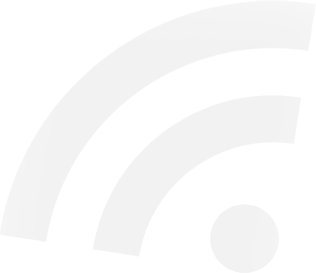
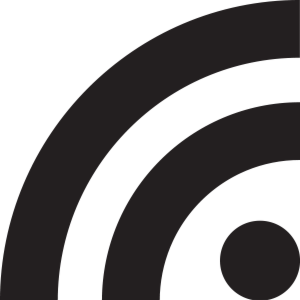
Updated styling for Text feed

diff --git a/modules/ik_frontend/css/styles.css b/modules/ik_frontend/css/styles.css
@@ -574,30 +574,36 @@ h6 {
   width: 100%; }
   /* line 478, ../sass/_layouts.scss */
   .layout-7 .text-container .heading-container {
-    width: 49.5%;
+    width: 45.5%;
     float: left; }
   /* line 483, ../sass/_layouts.scss */
   .layout-7 .text-container .slide-heading {
     margin-bottom: 10px;
     margin-bottom: 0.625rem; }
   /* line 487, ../sass/_layouts.scss */
+  .layout-7 .text-container .slide-subheading {
+    filter: progid:DXImageTransform.Microsoft.Alpha(Opacity=50);
+    opacity: 0.5; }
+  /* line 491, ../sass/_layouts.scss */
   .layout-7 .text-container .slide-text {
-    width: 49.5%;
+    width: 53.5%;
     float: left; }
-  /* line 492, ../sass/_layouts.scss */
+  /* line 496, ../sass/_layouts.scss */
   .layout-7 .text-container .divider {
     display: none; }
-/* line 497, ../sass/_layouts.scss */
+/* line 501, ../sass/_layouts.scss */
 .layout-7 .logo-container {
   right: auto;
   left: 40px; }
-/* line 502, ../sass/_layouts.scss */
+/* line 506, ../sass/_layouts.scss */
 .layout-7 .rss-icon {
+  filter: progid:DXImageTransform.Microsoft.Alpha(Opacity=20);
+  opacity: 0.2;
   display: block;
   position: absolute;
   right: 20px;
   bottom: 20px;
   background-image: url("../images/rss_overlay_icon.png");
   background-repeat: no-repeat;
-  width: 316px;
-  height: 273px; }
+  width: 300px;
+  height: 300px; }

diff --git a/modules/ik_frontend/sass/_layouts.scss b/modules/ik_frontend/sass/_layouts.scss
@@ -476,7 +476,7 @@
     width: 100%;
 
     .heading-container {
-      width: 49.5%;
+      width: 45.5%;
       float: left;
     }
 
@@ -484,8 +484,12 @@
       @include rem('margin-bottom', $default-spacing / 2);
     }
 
+    .slide-subheading {
+      @include opacity(0.5);
+    }
+
     .slide-text {
-      width: 49.5%;
+      width: 53.5%;
       float: left;
     }
 
@@ -500,14 +504,17 @@
   }
 
   .rss-icon {
+    @include opacity(0.2);
+
     display: block;
     position: absolute;
     right: $default-spacing;
     bottom: $default-spacing;
     background-image: url('../images/rss_overlay_icon.png');
     background-repeat: no-repeat;
-    width: 316px;
-    height: 273px;
+    width: 300px;
+    height: 300px;
+
   }
 }
 
